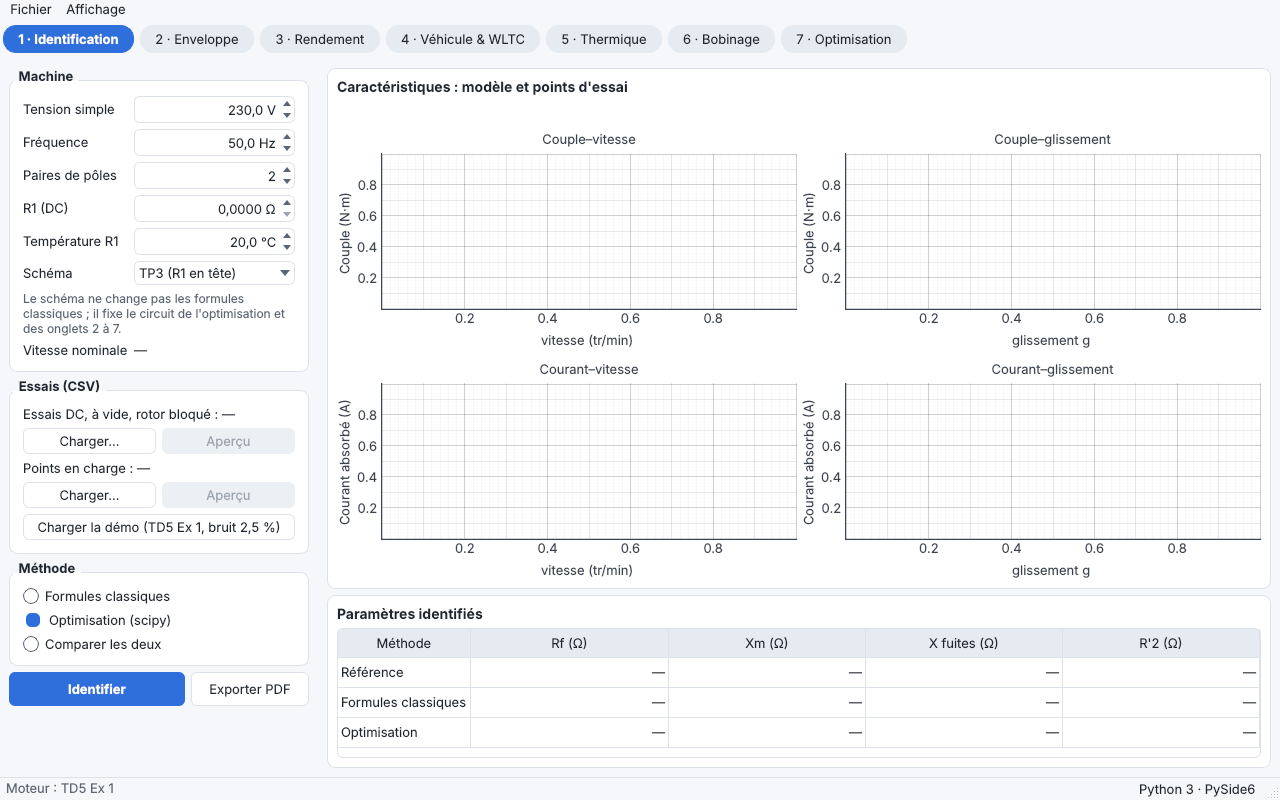
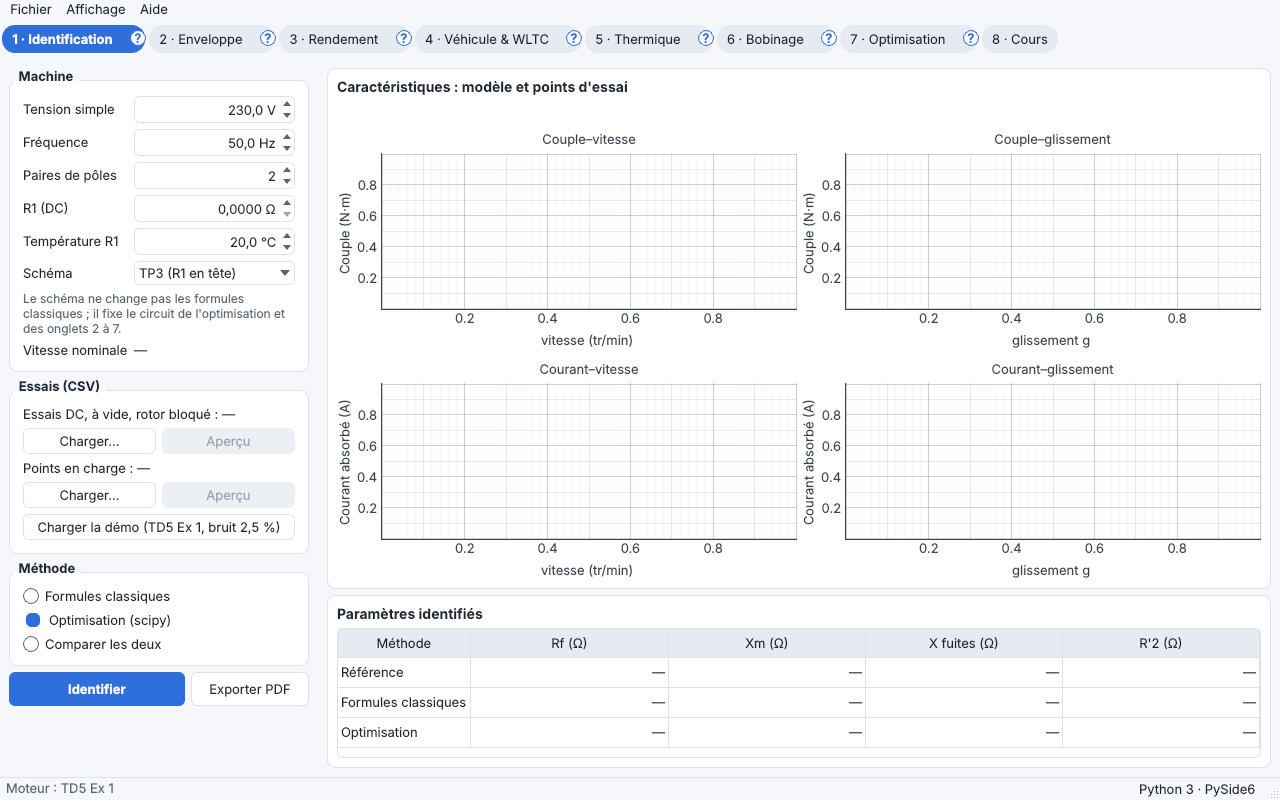
Course tab, step 5: README, user guide, demo script (+30 s on tab 8), screenshots
- README: tab 8 in the purpose, the module table and the validation table; new section
  « Tab 8 · Cours » (13 pages, 56 laws, 201 example numbers from core, live values,
  search, evlab:// routing, « ? »/F1/Aide, course PDF); self-test now 12 checks; build:
  course pages as package data, Qt web modules excluded
- user guide: « ? » buttons, F1 and the Aide menu, Fichier → Exporter le cours en PDF,
  new section 8 with the light and dark captures
- demo script: 5 min 30; new part 5:00–5:30 on tab 8 (« ? » of tab 1, the exact-inversion
  law and its 1,77 Ω / 2,000 Ω example, one answer, accent-free search, dark theme), then
  both PDF exports; tab 7 quick run ≈ 20 s; test count 690 + 3 waiting for WLTC files
- tools/capture_screenshots.py: tab 8 captured in the chosen theme and the other one
  (08_cours.png, 08_cours_sombre.png); QSettings point to a temporary folder so the
  user's remembered theme is untouched
- docs/images/: every capture redone (8 tabs with « ? »); every number the demo script
  quotes is identical to the previous capture

Claude-Session: https://claude.ai/code/session_0145D8UkLuz9fP81WYQd8PQ5

Changed region(s): [[0.0, 0.0, 0.8125, 0.0625]]

diff --git a/tools/capture_screenshots.py b/tools/capture_screenshots.py
@@ -9,7 +9,8 @@ Usage (from the repository root, app installed with `pip install -e .[dev]`):
 
 Clicks the demo path (tab 1 démo data → "Comparer les deux" → Identifier, then tabs 2 to 7,
 the FEM window on its saved 7,07 A run, the quick Pareto run 3 points × 300 evaluations on
-4 processes, "Charger ce design dans tous les onglets"), grabs each view at 1280 × 800 (--size WxH) and
+4 processes, "Charger ce design dans tous les onglets", then « ? » of tab 1 → tab 8 at one law
+of page 01, in the chosen theme and in the other one), grabs each view at 1280 × 800 (--size WxH) and
 prints, as JSON, every number the demo script quotes, read from the widgets themselves.
 Runs headless (QT_QPA_PLATFORM=offscreen) unless a display platform is already set.
 Not part of the application: a documentation tool. The __main__ guard is required, since
@@ -22,12 +23,14 @@ import argparse
 import json
 import os
 import sys
+import tempfile
 import time
 from pathlib import Path
 
 ROOT = Path(__file__).resolve().parents[1]
 SIZE = (1280, 800)
 FEM_RUN = "7,07 A"  # saved FEM run shown in 06b_fem.png (magnetising current of TD5 Ex 1)
+COURSE_LAW = "Rotor bloqué : inversion exacte du schéma"  # law of page 01 shown in 08_cours*.png
 
 
 def _table(t) -> list[list[str]]:
@@ -38,11 +41,14 @@ def _table(t) -> list[list[str]]:
 def capture(out: Path, theme_name: str = "light", size: tuple[int, int] = SIZE) -> dict:
     """Drive the app in the given theme and window size, save the PNGs in `out`, return the displayed numbers."""
     os.environ.setdefault("QT_QPA_PLATFORM", "offscreen")
-    from PySide6.QtCore import QEventLoop, QTimer
+    from PySide6.QtCore import QEventLoop, QSettings, QTimer
     from PySide6.QtWidgets import QApplication, QLabel
 
     from evlab.gui.main_window import MainWindow
+    from evlab.gui.tab_cours import SLUG_ROLE
 
+    # the theme switch of tab 8 is remembered by QSettings: keep the user's own choice untouched
+    QSettings.setPath(QSettings.Format.IniFormat, QSettings.Scope.UserScope, tempfile.mkdtemp(prefix="evlab_capture_"))
     app = QApplication.instance() or QApplication(sys.argv)
     out.mkdir(parents=True, exist_ok=True)
 
@@ -165,6 +171,24 @@ def capture(out: Path, theme_name: str = "light", size: tuple[int, int] = SIZE) 
     nums["design_tab2_tiles"] = {k: t.value.text() for k, t in t2.tiles.items()}
     nums["design_tab2_flux"] = t2.lbl_flux.text()
     shot(w, "02b_enveloppe_design")
+
+    # tab 8: « ? » of tab 1 opens its course page; one law with its example, then the other theme
+    c = w.course
+    wait(c.page_shown, w.help_buttons[0].click, timeout=120)
+    page = next(c.toc.topLevelItem(k) for k in range(c.toc.topLevelItemCount())
+                if c.toc.topLevelItem(k).data(0, SLUG_ROLE) == c.current)
+    c.toc.expandItem(page)
+    c.toc.expandItem(page.child(1))  # « Lois et explications »: the four law groups
+    c.scroll_to(COURSE_LAW)
+    text = " ".join(c.browser.toPlainText().split())
+    nums["tab8_page"] = [c.current, w.statusBar().currentMessage()]
+    nums["tab8_example"] = text[text.find("Exemple", text.find(COURSE_LAW)):][:330]
+    nums["tab8_motor"] = text[text.find("Moteur utilisé par la chaîne"):][:120]
+    shot(w, "08_cours")
+    other = "dark" if theme_name == "light" else "light"
+    wait(c.page_shown, lambda: w.set_theme(other))  # QSettings point to a temporary folder (above)
+    c.scroll_to(COURSE_LAW)
+    shot(w, "08_cours_" + ("sombre" if other == "dark" else "clair"))
     w.close()
     return nums
 

diff --git a/README.md b/README.md
@@ -10,9 +10,12 @@ one chain**: the Γ equivalent circuit identified in tab 1 from bench tests
 (default TD5 Ex 1, or the TP3-style démo files) is the motor that every other tab
 uses. Its circuit gives the V/f + field-weakening envelope, the efficiency map, the
 energy of a driving cycle, the winding temperature, and the design optimisation.
-Tab 6 covers the stator winding (factors, MMF, rotating field, optional FEM). A PDF
-report and an Excel workbook export the whole session. Specification: `CLAUDE.md`;
-user guide (French): `docs/user_guide.md`; 5-minute demo: `docs/demo_script.md`.
+Tab 6 covers the stator winding (factors, MMF, rotating field, optional FEM). Tab 8 is a
+French course that states and explains every law the app uses, tab by tab, in the notation
+of Pr Boughrara's course, with examples computed by the app itself (« ? » on each tab, F1).
+A PDF report and an Excel workbook export the whole session, and the course exports to
+PDF. Specification: `CLAUDE.md`; user guide (French): `docs/user_guide.md`; 5½-minute
+demo: `docs/demo_script.md`.
 
 ## Install
 
@@ -47,8 +50,9 @@ python -m evlab
 ```
 
 The `evlab` command (or `EVLab.exe`) does the same. Start-up self-test, without
-using the window (7 tabs, data folder, test datasets, FEM cache, demo files, envelope,
-cycle, two-process optimisation, PDF and Excel export: 10 checks; log in `<dossier>/smoke.log`, exit code 0 when all pass):
+using the window (8 tabs, data folder, test datasets, FEM cache, demo files, envelope,
+cycle, two-process optimisation, PDF and Excel export, course tab, course PDF: 12 checks;
+log in `<dossier>/smoke.log`, exit code 0 when all pass):
 
 ```bash
 python -m evlab --smoke build/smoke
@@ -83,6 +87,8 @@ official files are in `data/`.
 
 Screenshots: `python tools/capture_screenshots.py` redoes every `docs/images/*.png` by driving the
 app along `docs/demo_script.md` (headless, about 1 min) and prints the numbers the script quotes.
+Tab 8 is captured in both themes (`08_cours.png`, `08_cours_sombre.png`); the tool points
+QSettings to a temporary folder, so the theme you chose is left as it is.
 
 ## Build (PyInstaller, one folder)
 
@@ -103,6 +109,9 @@ pyinstaller --noconfirm --clean packaging/EVLab.spec
 Result: `dist/EVLab/EVLab(.exe)` with `_internal/` (Python, Qt, numpy, scipy …) and
 `data/` next to the executable (démo files, FEM cache; put the official WLTC files
 there). PyInstaller does not cross-compile: build the Windows version on Windows.
+The course pages (`src/evlab/docs/cours/*.md`) are bundled as package data and read with
+`importlib.resources`; the course is shown by a `QTextBrowser`, so the spec excludes
+QtWebEngine and the other Qt web modules (about 200 MB).
 
 ## Module overview and key equations
 
@@ -118,6 +127,7 @@ there). PyInstaller does not cross-compile: build the Windows version on Windows
 | `io/femm_model.py` (optional) | 6 | FEMM 4.2 magnetostatic stator model; B_r fundamental vs μ0·F1/(k_c·g); field at t + T/6 = field turned by q slots |
 | `core/optimise.py` | 7 | Variables G, boost, margin, k_N (impedances × k_N²); min Wh/km and t_0–50 under envelope, T_w ≤ class − 20 K, I1 ≤ i_max, E/f ≤ 1,10·En/fn; differential evolution + ε-constraint sweep, 1500 evaluations per Pareto point |
 | `io/report.py`, `io/excel.py`, `io/snapshot.py` | menu | A4 PDF (reportlab, 6 sections, assumptions box, démo footer); Excel sheet per module (SI arrays, units in headers) |
+| `core/cours_valeurs.py`, `io/cours.py`, `src/evlab/docs/cours/*.md` | 8 | no new law: the 56 laws of tabs 1–7 explained, each with an example computed by core (201 numbers), live values of the motor in use, accent-insensitive search; PDF of the whole course (QTextDocument + QPrinter) |
 
 ## What is validated / what is démo
 
@@ -133,6 +143,7 @@ there). PyInstaller does not cross-compile: build the Windows version on Windows
 | Thermal: steady state, time constants = eigenvalues, implicit = RK45, 10 K rule | **validated** | `tests/test_thermal.py` |
 | Optimisation: 1-variable optimum = brute force within 1 %; constraints met; same seed → same result | **validated** | `tests/test_optimise.py` |
 | FEM air-gap fundamental vs analytical MMF (−6,5 % linear, 6 A); T/6 symmetry < 1 % | **validated** where FEMM is installed | `tests/test_femm_model.py`, A32 |
+| Course (tab 8): every law named exists in core, every example number = an independent recomputation, every link has a target | **validated** | `tests/test_cours_pages.py`, `tests/test_cours_valeurs.py`, `tests/test_gui_cours.py` |
 | Bench and load-point files `data/*_demo.csv` (TD5 Ex 1 + R1 = 0,5 Ω, p_mec = 60 W, 2,5 % noise) | **démo** | `docs/data_notes.md` |
 | Driving cycle `data/cycle_demo.csv` (synthetic urban, not WLTC) | **démo** | A25; official WLTC files not yet provided |
 | Vehicle (600 kg quadricycle, C_xS, C_rr, r) | **démo** | A22 |
@@ -330,6 +341,39 @@ and every admissible evaluation, and shows baseline vs the selected design with
 the gain in % per KPI. "Charger ce design" loads the rewound motor, the V/f
 law and the gear ratio into every tab.
 
+## Tab 8 · Cours (`core/cours_valeurs.py`, `io/cours.py`, `gui/tab_cours.py`, `gui/cours_pdf.py`)
+
+A French course in 13 Markdown pages (`src/evlab/docs/cours/`, package data read with
+`importlib.resources`): an introduction, one page per tab 1–7, then *Hypothèses et
+limites*, *Glossaire des symboles*, *Notation : cours ↔ application*, *Validation* and
+*Bibliographie*. It adds no physics: it states the 56 laws that tabs 1–7 compute (16, 8, 6,
+6, 6, 8, 6), in the notation of Pr Boughrara's course (R_s, R_μ, X_μ, l_s'ω_s, R_r', I_s,
+I_r', g; the notation page maps it to the code's R1, Rf, Xm, X, R'2). Sources: the course
+PDF (*AC Electrical Machines*, cited as « Cours Pr Boughrara, MAS A §5.2, p. 94 », PDF page
+numbers; the PDF itself is not in the repository); topics the course does not cover are
+marked « hors cours » with a standard reference by author and title.
+
+Every tab page has the same plan: *Ce que fait cet onglet*; *Lois et explications*,
+grouped by theme (tab 1: Essais · Schéma équivalent · Couple et puissances · Ajustement par
+moindres carrés), each law with its equation, symbol table, explanation, « Ce que ça
+montre », the core function that computes it, an **Exemple** and the course reference;
+*Hypothèses*; *Avec votre moteur*; three questions with hidden answers; a link to the tab.
+
+- Numbers: the pages hold placeholders only. `core/cours_valeurs.exemples` computes the
+  201 example numbers from core objects, on the reference motor without noise or on the
+  noisy démo files (each example says which); `valeurs_moteur(motor)` gives the live values
+  of « Avec votre moteur » (« moteur de référence » until a motor is identified).
+  `io/cours.rendre` fills a page (French decimal comma) and raises `KeyError` on an unknown
+  value; the tests check that no `{{` is left on any page.
+- GUI: table of contents (pages, sections, law groups), search that ignores accents and
+  case (« decrochage » finds « décrochage », matches highlighted), a `QTextBrowser` that
+  never follows links itself: `evlab://onglet/…`, `evlab://page/…` and
+  `evlab://reponse/…` are routed by the tab. A « ? » button on each tab 1–7, F1 (page of
+  the tab on screen) and *Aide → Cours* open it. Light and dark themes.
+- *Fichier → Exporter le cours en PDF…*: title page (EV-Traction Lab, ENP Alger, ME3, date),
+  table of contents, one page per sheet, answers printed under their questions (52 A4 pages,
+  about 1 s, DejaVu fonts, always light).
+
 ## Reports (`io/report.py`, `io/excel.py`, `io/snapshot.py`, `io/figures.py`)
 
 Menu **Fichier → Exporter PDF… / Exporter Excel…** (also the "Exporter PDF"
@@ -347,6 +391,7 @@ button of tab 1) asks for the group name and a file, then writes, in a worker:
 Both come from one `Snapshot` of the session; results not computed yet (map,
 cycle, thermal) are computed with the core for the export, the optimisation is
 reported as "non calculée" until it has been run.
+*Fichier → Exporter le cours en PDF…* writes the course of tab 8 (see above), not the session.
 
 ## Core: Γ equivalent circuit (`core/circuit.py`, `core/session.py`)
 

diff --git a/docs/user_guide.md b/docs/user_guide.md
@@ -14,7 +14,7 @@ sont signalées par une pastille ou la mention « (démo) ».
 
 ![Capture — fenêtre principale](images/00_fenetre.png)
 
-*Fenêtre au démarrage : moteur TD5 Ex 1, aucun essai chargé.*
+*Fenêtre au démarrage : moteur TD5 Ex 1, aucun essai chargé ; huit onglets, un bouton « ? » sur chacun des sept premiers.*
 
 - **Version Windows** : ouvrir le dossier `EVLab` et lancer `EVLab.exe`. Aucune
   installation de Python n'est nécessaire. Le dossier `EVLab\data` contient les
@@ -22,7 +22,7 @@ sont signalées par une pastille ou la mention « (démo) ».
   `wltc_class3.csv`) quand ils sont disponibles.
 - **Depuis les sources** : `python -m evlab`.
 - **Auto-test** (sans interaction) : `EVLab.exe --smoke dossier` écrit
-  `dossier\smoke.log` (10 vérifications « ok »).
+  `dossier\smoke.log` (12 vérifications « ok », dont l'onglet 8 et le PDF du cours).
 - **Jeux de test** : `EVLab\data\tests\` contient trois moteurs, trois cycles et quatre
   fichiers volontairement erronés, tous synthétiques (voir `data/tests/README.md`).
 
@@ -36,7 +36,12 @@ de progression s'affiche, l'interface reste utilisable.
 encadré des hypothèses, pied de page listant les valeurs démo) et *Exporter
 Excel…* (une feuille par module, tableaux bruts en unités SI). Les résultats non
 encore calculés sont calculés pour l'export ; l'optimisation est notée « non
-calculée » tant qu'elle n'a pas été lancée.
+calculée » tant qu'elle n'a pas été lancée. *Exporter le cours en PDF…* écrit le cours
+de l'onglet 8 (voir la section 8).
+
+**Aide et cours** : chaque onglet 1 à 7 porte un bouton **?** qui ouvre sa page du cours
+(onglet 8) ; **F1** fait de même pour l'onglet affiché. Menu **Aide** : *Cours*
+(introduction) et *Cours de l'onglet affiché* (F1).
 
 **Menu Affichage** : *Thème clair* (par défaut) ou *Thème sombre* ; le choix est
 appliqué tout de suite et retenu au prochain démarrage. Les pastilles ambre
@@ -239,3 +244,49 @@ recalculent.
 les évaluations admissibles ; tableau *Base vs design sélectionné* avec le gain
 en % par indicateur (écart de température en K). La capture est une démo rapide
 (3 points × 300 évaluations) ; le calcul complet utilise 1500 évaluations par point.
+
+---
+
+## 8. Cours
+
+![Capture — onglet 8, thème clair](images/08_cours.png)
+
+![Capture — onglet 8, thème sombre](images/08_cours_sombre.png)
+
+*Bouton « ? » de l'onglet 1 : page « 1 · Identification », loi « Rotor bloqué : inversion
+exacte du schéma » ; en haut thème clair, en bas thème sombre.*
+
+**But** : énoncer et expliquer chaque loi que l'application utilise, onglet par onglet,
+dans la notation du cours du Pr Boughrara (R_s, R_μ, X_μ, l_s'ω_s, R_r', I_s, I_r', g).
+L'onglet n'ajoute aucun calcul : il explique ceux des onglets 1 à 7.
+
+**Pages** : introduction, une page par onglet 1 à 7, puis *Hypothèses et limites*,
+*Glossaire des symboles*, *Notation : cours ↔ application* (R_s ↔ R1, R_μ ↔ Rf, …),
+*Validation* et *Bibliographie*.
+
+**Plan d'une page d'onglet** : *Ce que fait cet onglet* ; *Lois et explications*, groupées
+par thème (onglet 1 : Essais · Schéma équivalent · Couple et puissances · Ajustement par
+moindres carrés), chaque loi avec son équation, le tableau de ses symboles, une
+explication, « Ce que ça montre », la fonction du code qui la calcule (« Dans
+l'application »), un **Exemple** et la référence au cours (« Cours Pr Boughrara, MAS A
+§5.2, p. 94 », ou « hors cours ») ; *Hypothèses* ; *Avec votre moteur* ; trois questions
+(*Voir la réponse* / *Masquer la réponse*) ; un lien vers l'onglet.
+
+**Les nombres** : tous sont calculés par l'application. Chaque exemple dit sur quelles
+données il est calculé : « moteur de référence, sans bruit » ou « fichiers démo bruités
+(R1 = 0,40 Ω) ». *Avec votre moteur* donne les valeurs du moteur utilisé par la chaîne
+en ce moment (« moteur de référence » tant qu'aucun moteur n'est identifié) et se met à
+jour à chaque identification ou chargement d'un design.
+
+**Navigation** : la table des matières (à gauche) ouvre une page, une section ou un groupe
+de lois. La recherche ignore les accents et les majuscules (« decrochage » trouve
+« décrochage ») : elle garde les pages qui contiennent tous les mots et surligne les
+occurrences. Les liens « Ouvrir l'onglet » changent d'onglet.
+
+**Export** : *Fichier → Exporter le cours en PDF…* écrit tout le cours (page de titre,
+sommaire, une page par feuille, réponses imprimées sous les questions), toujours en thème
+clair, nom proposé `cours_EV-Traction_Lab.pdf`.
+
+**À vérifier** : page 1, l'inversion exacte donne R_r' = 1,77 Ω sur les fichiers démo
+bruités et 2,000 Ω sur les mêmes fichiers sans bruit : l'écart vient du bruit, pas de la
+méthode.

diff --git a/docs/demo_script.md b/docs/demo_script.md
@@ -1,4 +1,4 @@
-# Démonstration en 5 minutes — EV-Traction Lab
+# Démonstration en 5 minutes 30 — EV-Traction Lab
 
 Fil conducteur : **un moteur, une chaîne**. Le moteur identifié à l'onglet 1 est
 celui de tous les autres onglets. Les chiffres ci-dessous sont ceux qu'affiche
@@ -6,7 +6,7 @@ l'application en suivant exactement ce parcours (fichiers démo, réglages par
 défaut, graine 0). Ils ont été relevés sur l'application elle-même.
 
 **Avant de commencer** : lancer `EVLab.exe` (ou `python -m evlab`), fenêtre
-maximisée, onglet 1 ouvert. Prévoir environ 15 s de calcul à l'onglet 7
+maximisée, onglet 1 ouvert. Prévoir environ 20 s de calcul à l'onglet 7
 (4 cœurs, démo rapide). Captures de chaque étape : `docs/images/`.
 
 **Ordre impératif : onglet 1 « Identifier » d'abord.** Le moteur de départ
@@ -24,7 +24,8 @@ onduleur ; C_w, C_s, R_ws, R_sa ; véhicule ; cycle).
 
 - **Montrer** la barre d'état : « Moteur : TD5 Ex 1 » et « Python 3 · PySide6 »
   (`00_fenetre.png`).
-- **Dire** : « Sept onglets, un seul moteur. Au démarrage, c'est le schéma en Γ du
+- **Dire** : « Sept onglets de calcul, un seul moteur ; le huitième est le cours qui
+  explique chaque loi. Au démarrage, c'est le schéma en Γ du
   TD5 Ex 1 : Rf = 230 Ω, Xm = 46 Ω, X = 4 Ω, R'2 = 2 Ω, R1 = 0. Il donne
   g_c = R'2/X = 0,5 et T_max = 3pV²/(2Xω) = 126,3 N·m, nos valeurs de référence
   testées. Nous allons le remplacer par un moteur identifié à partir d'essais. »
@@ -117,7 +118,7 @@ onduleur ; C_w, C_s, R_ws, R_sa ; véhicule ; cycle).
 ## 4:20 – 5:00 · Onglet 7 — Optimisation
 
 - **Régler** *Points de Pareto* = 3, *Évaluations / point* = 300, *Processus* = 4
-  (900 évaluations, ≈ 17 s), puis *Lancer l'optimisation*.
+  (900 évaluations, ≈ 20 s), puis *Lancer l'optimisation*.
 - **Dire** : « Démo rapide ; calcul complet : 1500 évaluations par point »
   (réglage par défaut : 6 points × 1500 = 9000 évaluations, environ 3 min sur
   4 cœurs). Les chiffres ci-dessous sont ceux de la démo rapide ; le calcul
@@ -150,11 +151,30 @@ onduleur ; C_w, C_s, R_ws, R_sa ; véhicule ; cycle).
   modèle ne sature pas : le gain à basse vitesse reste un peu optimiste. »
   Nouvelles tuiles : base 1238 tr/min, fin de puissance constante 1808 tr/min,
   P max 8,90 kW.
-- **Conclure** : *Fichier → Exporter PDF…* : rapport de 2 à 3 pages, sections 1
-  à 6, hypothèses, et pied de page listant ce qui est démo.
+
+## 5:00 – 5:30 · Onglet 8 — Cours
+
+- **Cliquer** le bouton **?** de l'onglet « 1 · Identification » (ou F1 sur l'onglet 1) :
+  la page « 1 · Identification » du cours s'ouvre ; la table des matières montre les
+  quatre groupes de lois (Essais · Schéma équivalent · Couple et puissances · Ajustement
+  par moindres carrés). Faire défiler jusqu'à « Rotor bloqué : inversion exacte du
+  schéma » (`08_cours.png`).
+- **Dire** : « Chaque loi a son équation, ses symboles, une explication, la fonction du
+  code qui la calcule, un exemple calculé par l'application et la page du cours du
+  Pr Boughrara. Ici, sur les fichiers démo bruités, R_r' = 1,77 Ω au lieu de 2 Ω : c'est
+  le bruit, pas la méthode ; les mêmes fichiers sans bruit donnent 2,000 Ω. »
+- **Cliquer** *Voir la réponse* sous Q1 (« Pourquoi divise-t-on U_dc par 2·I_dc ? ») :
+  « on mesure 2·R_s », deux phases en série.
+- **Taper** « decrochage » dans la recherche : « 19 occurrence(s) dans 6 page(s) », les
+  accents sont ignorés. *Affichage → Thème sombre* : la page suit le thème
+  (`08_cours_sombre.png`).
+- **Conclure** : *Fichier → Exporter PDF…* : rapport de 2 à 3 pages, sections 1 à 6,
+  hypothèses, et pied de page listant ce qui est démo ; *Fichier → Exporter le cours en
+  PDF…* : le cours entier, 52 pages, réponses imprimées.
 
 ---
 
 **Si une question porte sur la validation** : renvoyer au tableau « What is
 validated / what is démo » du README (circuit TD5, facteurs de bobinage,
-bilans d'énergie, comparaison avec un balayage exhaustif à 1 % près, 555 tests).
+bilans d'énergie, comparaison avec un balayage exhaustif à 1 % près, 690 tests
+qui passent et 3 en attente des fichiers WLTC) et à la page « Validation » du cours.
